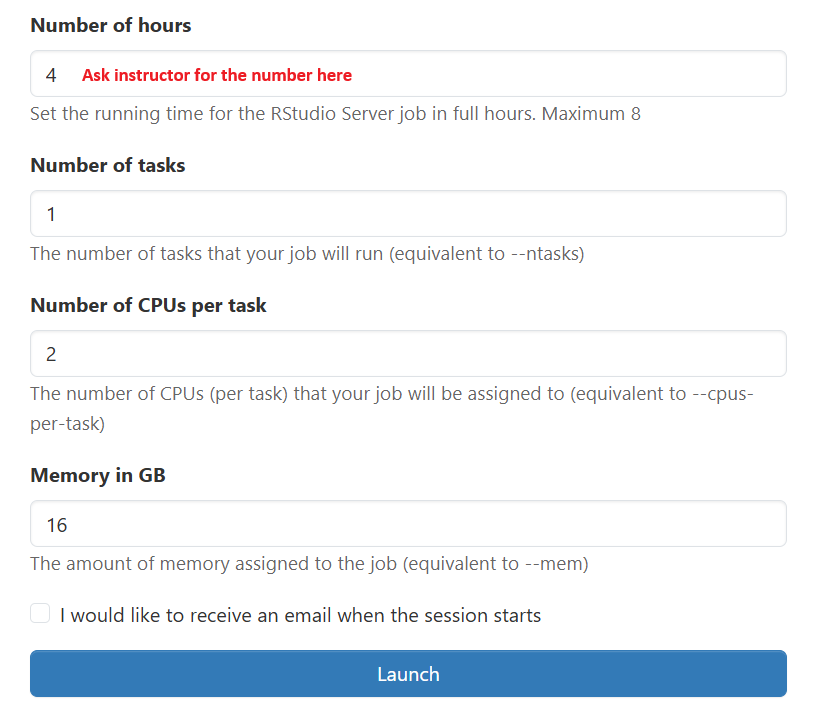
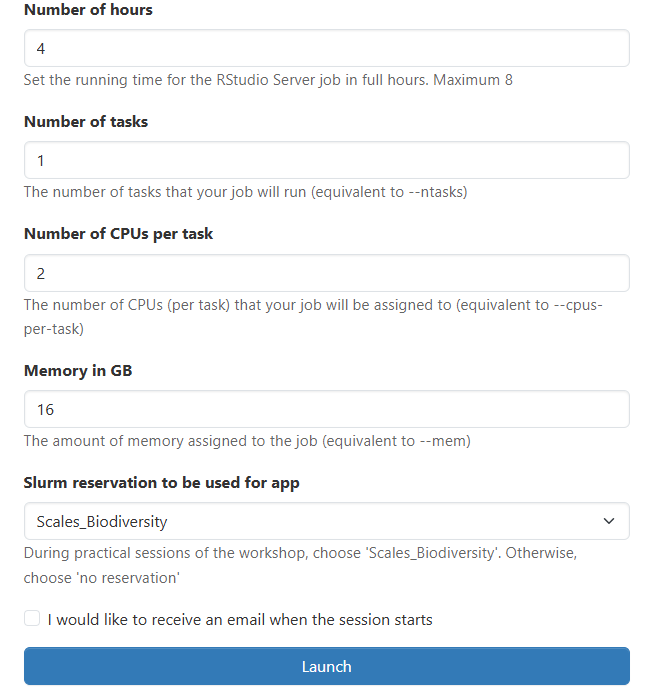
Added reservation info and image replacement

diff --git a/_shell/01-introduction.md b/_shell/01-introduction.md
@@ -122,11 +122,16 @@ the internet, so first connect to the university network with eduVPN.
      <img src="{{ page.root }}/../fig/alice_rstudio_2_app_form.png" alt="RStudio Server GPU IBL form with the RStudio version, the additional modules and the Slurm partition gpu_ibl" />
    </a>
 
-   Further down, ask your instructor which *Number of hours* to use, leave *Number of
-   tasks* at `1`, and set *Number of CPUs per task* to `2` and *Memory in GB* to `16`.
+   Further down, in the scheduled workshop timeslots, enter 4 hours for *Number of
+   hours*, leave *Number of tasks* at `1`, and set *Number of CPUs per task* to `2`
+   and *Memory in GB* to `16`.
+
+   During the workshop moments, we get priority on processing power, so during those
+   moments set *Slurm reservation to be used for app* to `Scales_Biodiversity`. If you
+   want to work on this outside those hours, select `no reservation` instead.
 
    <a href="{{ page.root }}/../fig/alice_rstudio_3_resources.png">
-     <img src="{{ page.root }}/../fig/alice_rstudio_3_resources.png" alt="RStudio Server GPU IBL form with the number of hours, 1 task, 2 CPUs per task and 16 GB of memory" />
+     <img src="{{ page.root }}/../fig/alice_rstudio_3_resources.png" alt="RStudio Server GPU IBL form with the number of hours, 1 task, 2 CPUs per task, 16 GB of memory and the Slurm reservation set to Scales_Biodiversity" />
    </a>
 
    Then click *Launch* at the bottom of the form. When your session is *Running*, click
